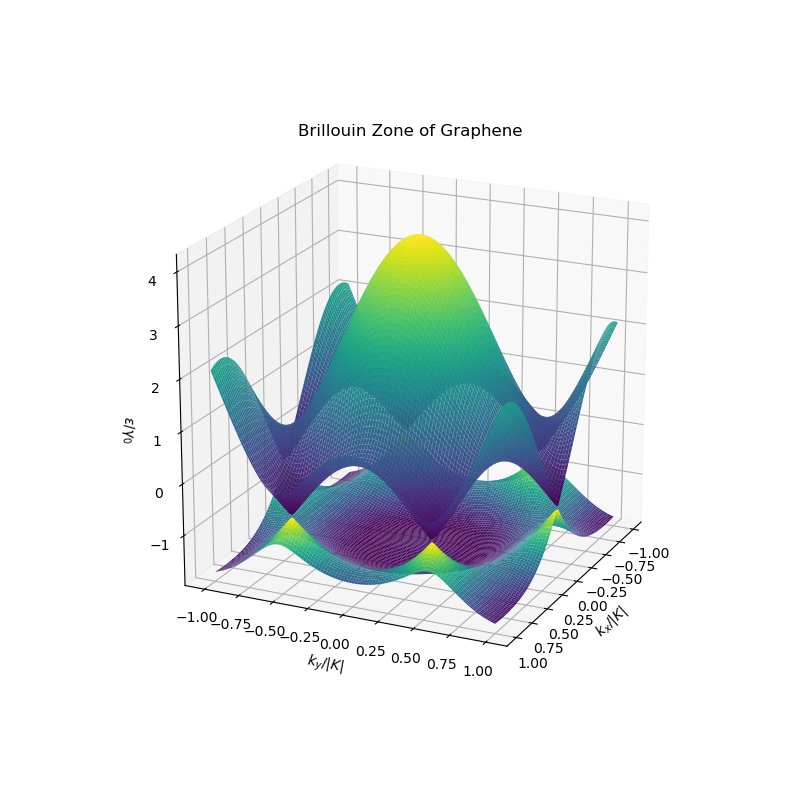
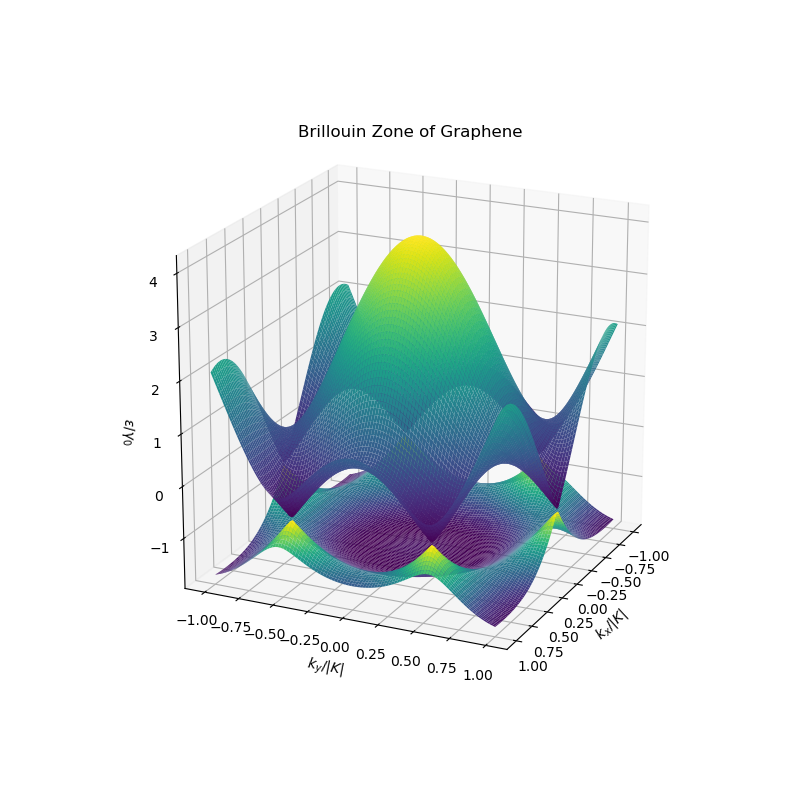
overview.py code updates overview.png every time

diff --git a/graphenemodeling/overview.py b/graphenemodeling/overview.py
@@ -1,3 +1,4 @@
+import os
 import numpy as np
 from scipy import constants
 import matplotlib.pyplot as plt
@@ -49,4 +50,6 @@ if True:
     fullax.set_zlabel('$\epsilon/\gamma_0$')
     fullax.set_title('Brillouin Zone of Graphene')
 
+    dirname=os.path.dirname(os.path.dirname(__file__))
+    plt.savefig(os.path.join('notebooks','Graphene','images','overview.png'))
     plt.show()
